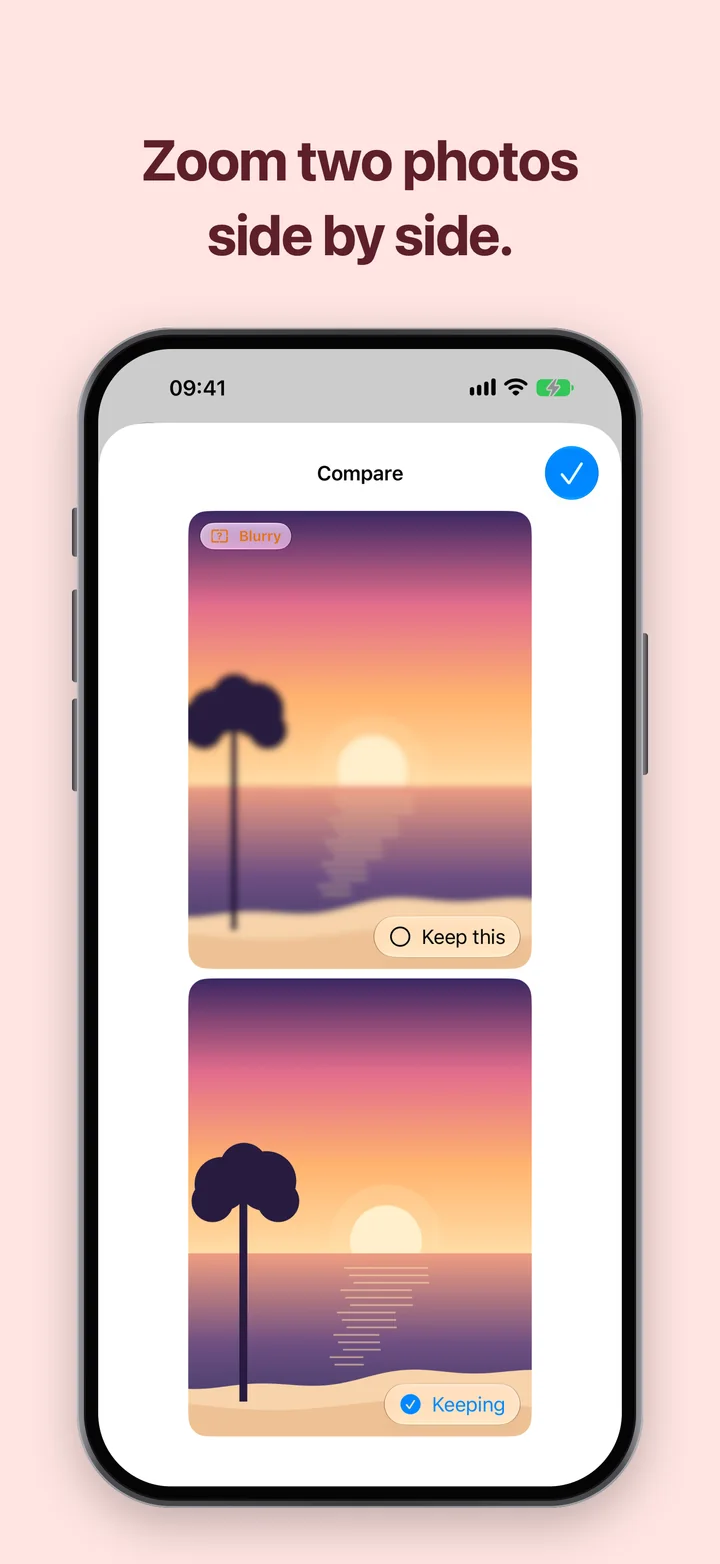
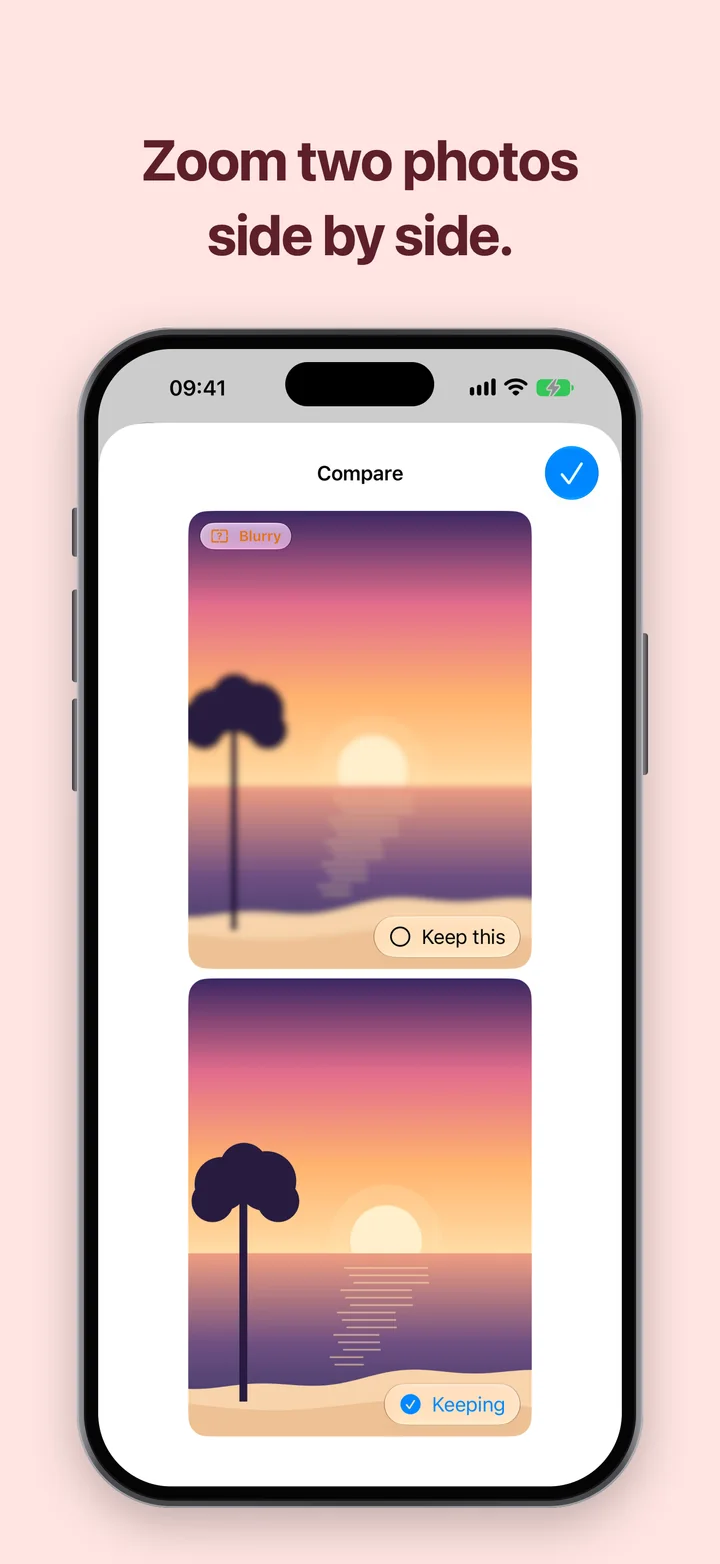
Add Dynamic Island to BestCut screenshots, Japanese screenshots, and Running in the code card
Claude-Session: https://claude.ai/code/session_012kBGn4mQwwsHadXgffSdPU

Changed region(s): [[0.3972, 0.2148, 0.6111, 0.2762]]

diff --git a/index.html b/index.html
@@ -406,7 +406,7 @@
         <pre class="px-6 py-5 text-[13px] md:text-sm leading-7 font-mono code-body overflow-x-auto"><span class="tok-k">class</span> <span class="tok-c">Geonhwi</span><span class="tok-p">:</span>
     <span class="tok-k">def</span> <span class="tok-f">__init__</span><span class="tok-p">(</span>self<span class="tok-p">):</span>
         self<span class="tok-p">.</span>major <span class="tok-p">=</span> <span class="tok-s">"AI"</span>
-        self<span class="tok-p">.</span>loves <span class="tok-p">= [</span><span class="tok-s">"AI"</span><span class="tok-p">,</span> <span class="tok-s">"Content"</span><span class="tok-p">,</span> <span class="tok-s">"Travel"</span><span class="tok-p">]</span>
+        self<span class="tok-p">.</span>loves <span class="tok-p">= [</span><span class="tok-s">"AI"</span><span class="tok-p">,</span> <span class="tok-s">"Content"</span><span class="tok-p">,</span> <span class="tok-s">"Travel"</span><span class="tok-p">,</span> <span class="tok-s">"Running"</span><span class="tok-p">]</span>
 
     <span class="tok-k">def</span> <span class="tok-f">say_hi</span><span class="tok-p">(</span>self<span class="tok-p">):</span>
         <span class="tok-k">return</span> <span class="tok-s">"Hi, I'm Geonhwi!"</span><span class="cursor ml-1"></span></pre>
@@ -735,7 +735,7 @@
       }
     };
 
-    const BC_ALT = {"ko": ["비슷한 사진은 한 묶음으로, 베스트 컷은 미리 골라 둬요", "흔들리고 어두운 사진은 알아서 표시해요", "한 장씩 넘기며 빠르게 골라요", "두 장 나란히 놓고 함께 확대해 비교", "고른 사진은 앨범으로, 지우기 전엔 꼭 확인해요", "사진은 iPhone 밖으로 나가지 않아요"], "en": ["Similar shots, grouped. Best one already picked.", "Blurry and dark shots, flagged for you.", "Swipe to pick, one photo at a time.", "Zoom two photos side by side.", "Your picks become an album. You confirm every delete.", "Your photos never leave your iPhone."]};
+    const BC_ALT = {"ko": ["비슷한 사진은 한 묶음으로, 베스트 컷은 미리 골라 둬요", "흔들리고 어두운 사진은 알아서 표시해요", "한 장씩 넘기며 빠르게 골라요", "두 장 나란히 놓고 함께 확대해 비교", "고른 사진은 앨범으로, 지우기 전엔 꼭 확인해요", "사진은 iPhone 밖으로 나가지 않아요"], "en": ["Similar shots, grouped. Best one already picked.", "Blurry and dark shots, flagged for you.", "Swipe to pick, one photo at a time.", "Zoom two photos side by side.", "Your picks become an album. You confirm every delete.", "Your photos never leave your iPhone."], "ja": ["似た写真はひとまとめに、ベストショットは選んでおきます", "ブレた写真や暗い写真は自動でお知らせ", "1枚ずつスワイプしてサクサク選べる", "2枚を並べて一緒に拡大して比較", "選んだ写真はアルバムに、削除の前に必ず確認", "写真がiPhoneの外に出ることはありません"]};
     const workItems = [
       { title: 'BestCut', desc: 'appTag', meta: 'Swift · SwiftUI · Vision', accent: '#15803D', href: 'bestcut/', shots: [1, 3, 5] },
       { title: 'Vision AI Recognition', desc: 'p1Short', meta: 'Python · PyTorch · OpenCV', accent: '#4F46E5', modal: 'project1', art: ['from-indigo-500 via-indigo-600 to-purple-600', 'AI', 'i-brain'] },
@@ -749,7 +749,7 @@
       const d = dict[lang];
       list.innerHTML = workItems.map((w, i) => {
         const open = w.href ? `href="${w.href}?lang=${lang}"` : `href="#works" onclick="event.preventDefault(); openModal('${w.modal}')"`;
-        const sl = lang === 'ko' ? 'ko' : 'en';
+        const sl = lang === 'en' ? 'en' : lang;
         const visual = w.shots
           ? `<div class="wk-phones"><div class="wk-shotrow">${w.shots.map(n => `<img src="assets/bestcut/shots/${sl}/${n}.webp" alt="${BC_ALT[sl][n - 1]}" width="720" height="1564" decoding="async">`).join('')}</div></div>`
           : `<div class="wk-art bg-gradient-to-br ${w.art[0]} p-6 flex flex-col justify-between relative overflow-hidden">

diff --git a/bestcut/index.html b/bestcut/index.html
@@ -227,7 +227,7 @@
   </nav>
 
   <script>
-    const BC_ALT = {"ko": ["비슷한 사진은 한 묶음으로, 베스트 컷은 미리 골라 둬요", "흔들리고 어두운 사진은 알아서 표시해요", "한 장씩 넘기며 빠르게 골라요", "두 장 나란히 놓고 함께 확대해 비교", "고른 사진은 앨범으로, 지우기 전엔 꼭 확인해요", "사진은 iPhone 밖으로 나가지 않아요"], "en": ["Similar shots, grouped. Best one already picked.", "Blurry and dark shots, flagged for you.", "Swipe to pick, one photo at a time.", "Zoom two photos side by side.", "Your picks become an album. You confirm every delete.", "Your photos never leave your iPhone."]};
+    const BC_ALT = {"ko": ["비슷한 사진은 한 묶음으로, 베스트 컷은 미리 골라 둬요", "흔들리고 어두운 사진은 알아서 표시해요", "한 장씩 넘기며 빠르게 골라요", "두 장 나란히 놓고 함께 확대해 비교", "고른 사진은 앨범으로, 지우기 전엔 꼭 확인해요", "사진은 iPhone 밖으로 나가지 않아요"], "en": ["Similar shots, grouped. Best one already picked.", "Blurry and dark shots, flagged for you.", "Swipe to pick, one photo at a time.", "Zoom two photos side by side.", "Your picks become an album. You confirm every delete.", "Your photos never leave your iPhone."], "ja": ["似た写真はひとまとめに、ベストショットは選んでおきます", "ブレた写真や暗い写真は自動でお知らせ", "1枚ずつスワイプしてサクサク選べる", "2枚を並べて一緒に拡大して比較", "選んだ写真はアルバムに、削除の前に必ず確認", "写真がiPhoneの外に出ることはありません"]};
     const T = {
       ko: {
         tagline: '잘 나온 사진만 남기는 사진 정리 앱',
@@ -311,7 +311,7 @@
       document.querySelectorAll('[data-aria]').forEach(el => el.setAttribute('aria-label', t[el.dataset.aria]));
       document.getElementById('features').innerHTML = t.features.map(([h, p]) => `<div class="card"><p class="value">${h}</p><p>${p}</p></div>`).join('');
       document.querySelectorAll('.langs button').forEach(b => b.setAttribute('aria-pressed', String(b.dataset.lang === lang)));
-      const sl = lang === 'ko' ? 'ko' : 'en';
+      const sl = lang === 'en' ? 'en' : lang;
       const shots = list => list.map(n => `<img src="../assets/bestcut/shots/${sl}/${n}.webp" alt="${BC_ALT[sl][n - 1]}" width="720" height="1564" decoding="async">`).join('');
       galleries.forEach(g => { g.track.innerHTML = shots(g.track.dataset.shots.split(',').map(Number)); });
       layoutGalleries();
